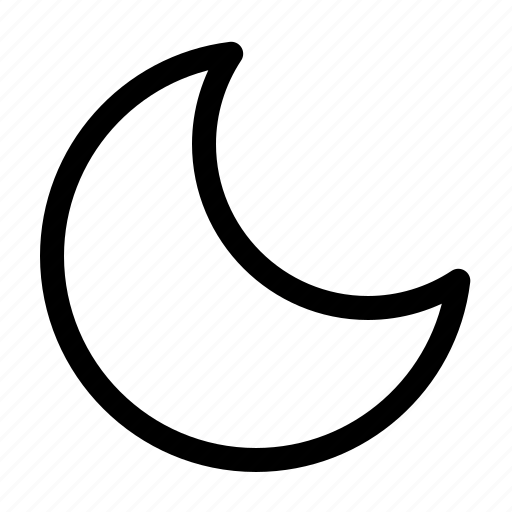
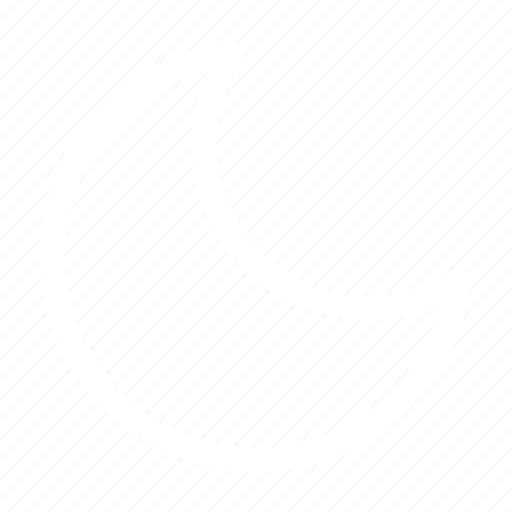
Change theme and add image preloading

Changed region(s): [[0.0625, 0.0625, 0.9375, 0.9375]]

diff --git a/client/src/components/Buttons.js b/client/src/components/Buttons.js
@@ -1,16 +1,30 @@
 import { useEffect, useContext } from 'react';
 import { useNavigate } from 'react-router-dom';
-import backArrow from '../assets/images/back_arrow.png'
-import lightMode from '../assets/images/light_mode.png'
-import darkMode from '../assets/images/dark_mode.png'
+import backArrow from '../assets/images/back_arrow.png';
+import backArrowWhite from '../assets/images/back_arrow_white.png';
+import lightMode from '../assets/images/light_mode.png';
+import darkMode from '../assets/images/dark_mode.png';
 import { style } from '../App';
 import { ThemeContext } from '../utils/Contexts';
 
 export function BackButton() {
+  const theme = useContext(ThemeContext)[0];
   const navigate = useNavigate();
+
+  useEffect(() => {
+    // Preload images
+    const imageList = [backArrow, backArrowWhite];
+    imageList.forEach(image => {
+      new Image().src = image;
+    });
+  }, []);
+
   return (
     <div className="btn back" onClick={() => navigate(-1)}>
-      <img src={backArrow} className="corner" alt="Back"/>
+      <img
+        src={theme === "light" ? backArrow : backArrowWhite}
+        className="corner"
+        alt="Back"/>
     </div>
   );
 }
@@ -25,11 +39,11 @@ export function ThemeButton() {
   }
 
   function setLightMode() {
-    style.setProperty('--bg-color', 'ghostwhite');
+    style.setProperty('--bg-color', '#E8EAF6');
     style.setProperty('--text-color', 'black');
-    style.setProperty('--btn-color', '#E8EBF7');
-    style.setProperty('--hover-color', '#ACBED8');
-    style.setProperty('--select-color', '#D78521');
+    style.setProperty('--btn-color', '#C5CAE9');
+    style.setProperty('--hover-color', '#9FA8DA');
+    style.setProperty('--select-color', '#5C6BC0');
     style.setProperty('--hover-shadow-color', 'rgba(1, 1, 1, 0.2)');
   }
 
@@ -38,7 +52,7 @@ export function ThemeButton() {
     style.setProperty('--text-color', 'gainsboro');
     style.setProperty('--btn-color', '#414141');
     style.setProperty('--hover-color', '#525252');
-    style.setProperty('--select-color', '#CA3E47');
+    style.setProperty('--select-color', '#5C6BC0');
     style.setProperty('--hover-shadow-color', 'white');
   }
 
@@ -48,8 +62,13 @@ export function ThemeButton() {
   }
   
   useEffect(() => {
+    // Preload images
+    const imageList = [lightMode, darkMode];
+    imageList.forEach(image => {
+      new Image().src = image;
+    });
     setProperties();
-  });
+  }, []);
 
   useEffect(() => {
     if (theme === "dark") setDarkMode();
@@ -58,10 +77,9 @@ export function ThemeButton() {
   
   return (
     <div className="btn settings" onClick={toggleTheme}>
-      {
-        theme === "dark"
-          ? <img src={darkMode} className="corner" alt="Dark"/>
-          : <img src={lightMode} className="corner" alt="Light"/>
+      { theme === "dark"
+        ? <img src={darkMode} className="corner" alt="Dark"/>
+        : <img src={lightMode} className="corner" alt="Light"/>
       }
     </div>
   );

diff --git a/client/src/components/Metronome.js b/client/src/components/Metronome.js
@@ -1,6 +1,8 @@
-import React, { Component } from 'react'
-import image_metronome from '../assets/images/metronome.png'
+import React, { Component } from 'react';
+import image_metronome from '../assets/images/metronome.png';
+import image_metronome_white from '../assets/images/metronome_white.png';
 import { Flex, Box, CircularProgress, CircularProgressLabel } from '@chakra-ui/react';
+import { ThemeContext } from '../utils/Contexts';
 
 // Metronome built using this as guidance.
 // https://grantjam.es/creating-a-simple-metronome-using-javascript-and-the-web-audio-api/
@@ -15,7 +17,7 @@ class Metronome extends Component {
       // User-customizable state variables
       currentBeatInBar: 0,
       beatsPerBar: 4,
-      BPM: 100,
+      bpm: 100,
       btn3: true,
       btn4: true,
       btn5: false,
@@ -104,7 +106,7 @@ class Metronome extends Component {
    * Adjusts seconds per beat in case metronome was adjusted.
    */
   nextBeat = () => {
-    var secondsPerBeat = 60.0 / this.state.BPM;
+    var secondsPerBeat = 60.0 / this.state.bpm;
     this.setState(state => ({
       nextNoteTime: state.nextNoteTime + secondsPerBeat,
       currentBeatInBar: (state.currentBeatInBar + 1) % state.beatsPerBar
@@ -179,9 +181,9 @@ class Metronome extends Component {
   decBPM = () => {
     // Prevent 0 tempo
     this.setState({
-      BPM: this.state.BPM - 10 === 0
-        ? this.state.BPM
-        : this.state.BPM - 10
+      BPM: this.state.bpm - 10 === 0
+        ? this.state.bpm
+        : this.state.bpm - 10
     });
   }
 
@@ -191,9 +193,9 @@ class Metronome extends Component {
   incBPM = () => {
     // Max tempo is 240
     this.setState({
-      BPM: this.state.BPM + 10 > 240 
-        ? this.state.BPM
-        : this.state.BPM + 10
+      BPM: this.state.bpm + 10 > 240 
+        ? this.state.bpm
+        : this.state.bpm + 10
     });
   }
 
@@ -202,18 +204,21 @@ class Metronome extends Component {
   }
 
   render() {
+    let theme = this.context[0];
     return ( 
       <div className="metronome">
         <Flex flexDir="row" alignItems="center">
           <Box>
             <div className={this.state.isPlaying ? "btn metro playing" : "btn metro"} onClick={this.startStopMetro}>
-              <img src={image_metronome} alt="Start/Stop Metronome" height={50} width={50}/>
+              <img
+                src={theme === "light" ? image_metronome : image_metronome_white}
+                alt="Start/Stop Metronome" height={50} width={50}/>
             </div>
           </Box>
           <Flex flexDir="column" alignItems="center">
             <Box>
               <div className="metro bpm">
-                {this.state.BPM}
+                {this.state.bpm}
               </div>
             </Box>
             <Box width={80}>
@@ -272,5 +277,6 @@ class Metronome extends Component {
     );
   }
 }
+Metronome.contextType = ThemeContext;
 
 export default Metronome;

diff --git a/client/src/App.css b/client/src/App.css
@@ -3,15 +3,15 @@
 /********************/
 :root {
   font-size: 16px;
-  --bg-color: ghostwhite;
+  /* These colors get overwritten in Buttons.js */
+  --bg-color: #E8EAF6;
   --text-color: black;
-  --btn-color: #E8EBF7;
-  --hover-color: #ACBED8;
-  --select-color: #D78521;
+  --btn-color: #9FA8DA;
+  --hover-color: #5C6BC0;
+  --select-color: #3949AB;
   --border-color: rgba(1, 1, 1, 0.2);
   --shadow-color: rgba(1, 1, 1, 0.2);
   --hover-shadow-color: rgba(1, 1, 1, 0.2);
-  --unused-color: #DE1A1A;
 }
 
 /********************/
@@ -78,6 +78,9 @@ h2 {
   right: 0;
   bottom: 0;
   background-color: rgba(1, 1, 1, 0.5);
+}
+p.error {
+  color: red;
 }
 
 /********************/
@@ -166,9 +169,11 @@ table {
   height: 100%;
   max-height: 100%;
   width: 90%;
+  box-shadow: 0px 0px 2px var(--shadow-color);
+  background-color: var(--bg-color);
 }
 table tr.header {
-  background-color: var(--btn-color);
+  background-color: var(--hover-color);
 }
 table tr.data {
   text-align: left;
@@ -183,7 +188,6 @@ table tr.data.selected {
   height: 100%;
   width: 100%;
   overflow: auto;
-  /* border: 1px solid var(--border-color); */
 }
 tbody {
   width: 100%;
@@ -221,7 +225,7 @@ input[type=file] {
 /*    Metronome     */
 /********************/
 div.metronome {
-  background-color: var(--btn-color);
+  background-color: var(--bg-color);
   border-radius: 10px;
   margin: 5px 5px;
   text-align: center;
@@ -230,7 +234,7 @@ div.metronome {
   box-shadow: 0px 0px 2px var(--shadow-color);
 }
 div.metro.bpm {
-  background-color: var(--hover-color);
+  background-color: var(--btn-color);
   border-radius: 10px;
   margin: 2.5px;
   text-align: center;
@@ -288,9 +292,9 @@ div.tuner-center {
 }
 div.tuner-gauge {
   text-align: left;
-  height: 20vh;
   width: 60vw;
   margin: auto auto;
+  box-shadow: 0px 0px 2px var(--shadow-color);
 }
 text.tuner-center {
   margin: auto;
